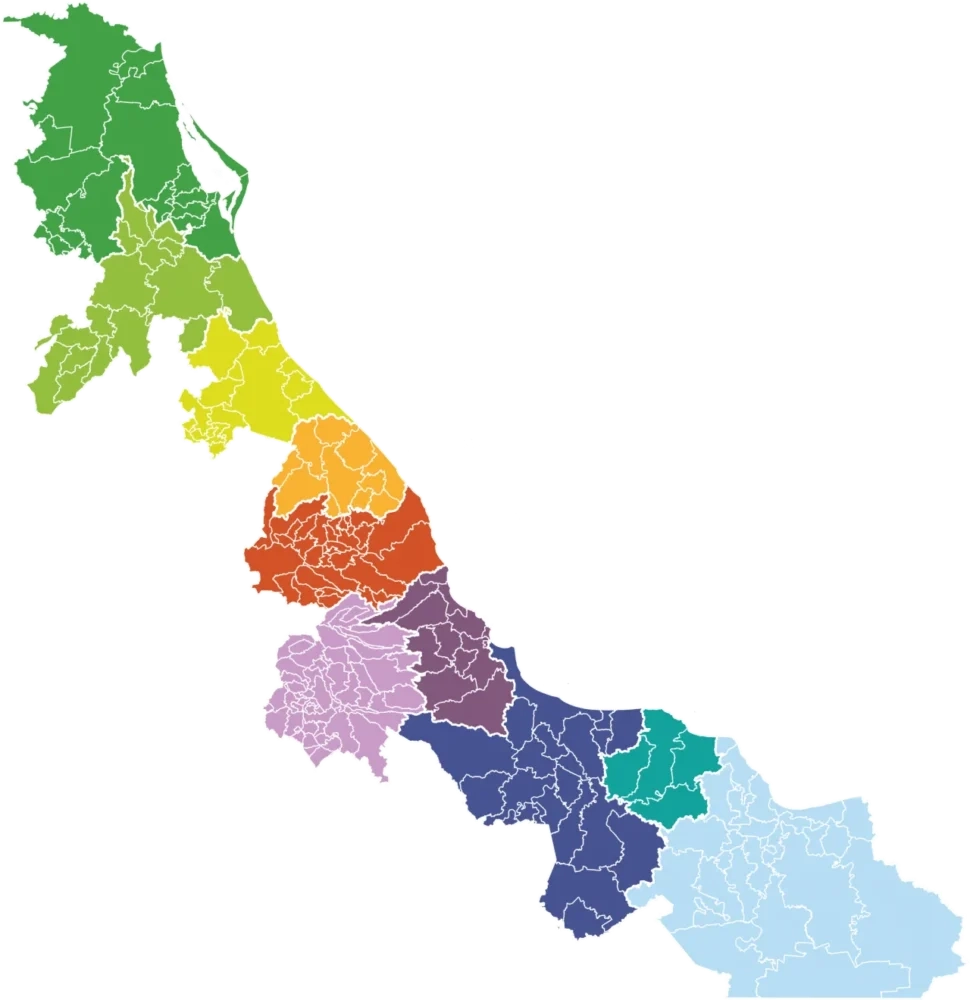
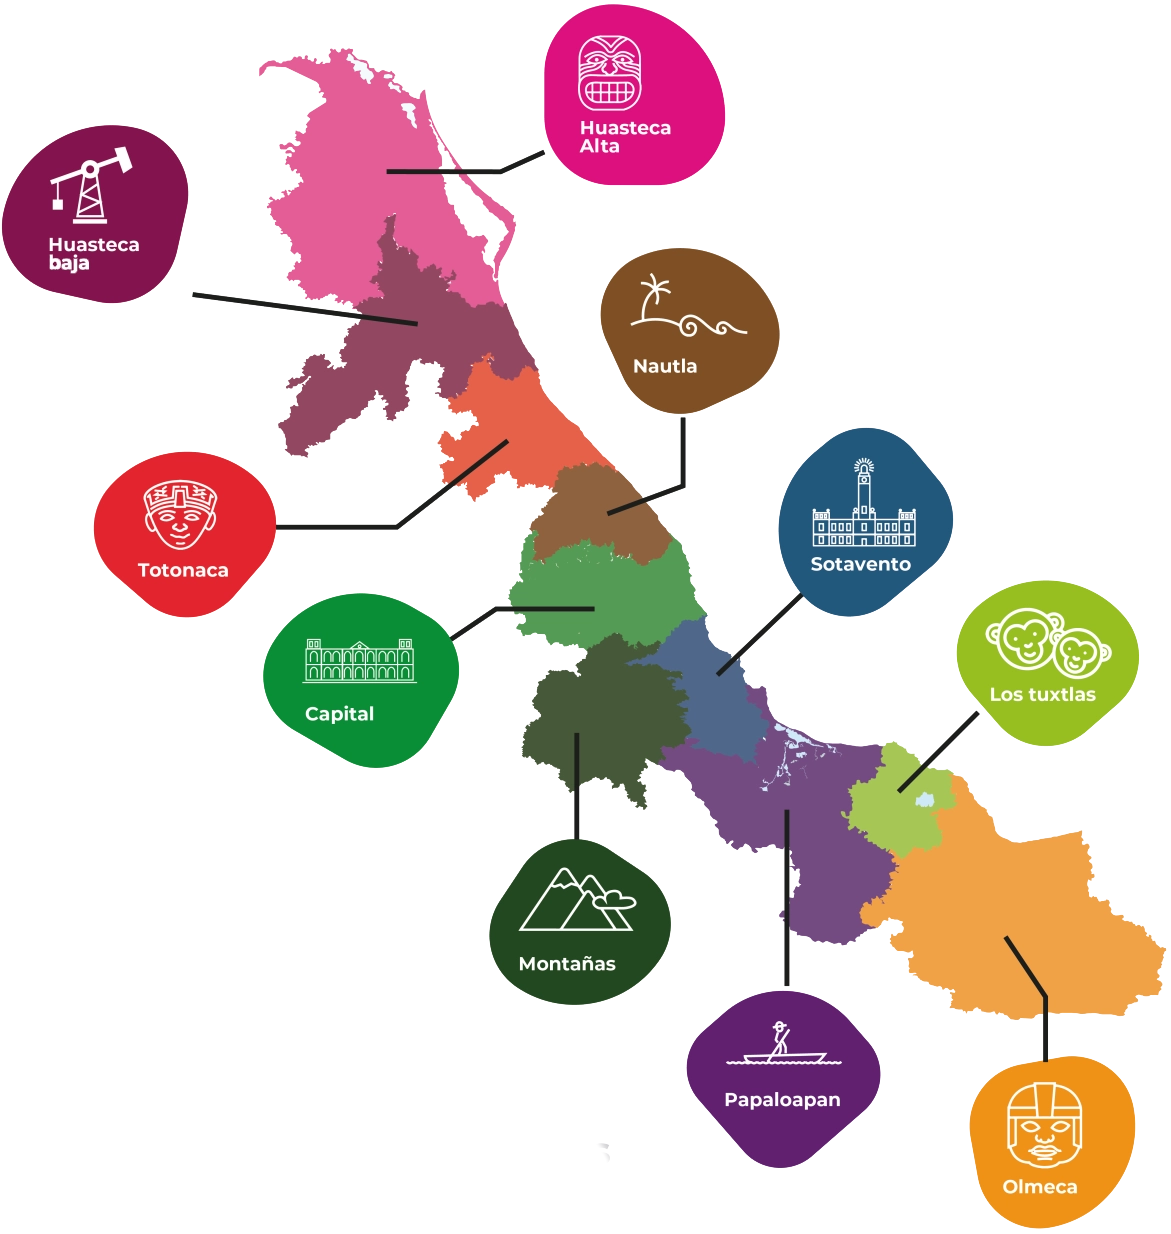
refactor: update map layout, recalibrate hotspots, and replace map asset for improved responsiveness

diff --git a/sonzapateado.html b/sonzapateado.html
@@ -643,12 +643,14 @@
 
 		.map-viewport {
 			position: relative;
-			flex: 0 0 350px; /* Ancho fijo para estabilidad total */
+			flex: 0 0 550px;
+			/* Tamaño mayor para PC */
 			background: transparent;
 			border-radius: 20px;
 			border: 1px solid rgba(255, 255, 255, 0.05);
-			margin: 0 auto;
+			margin: 0;
 			height: fit-content;
+			max-width: 100%;
 		}
 
 		.map-image {
@@ -672,7 +674,8 @@
 			transform: translate(-50%, -50%);
 			z-index: 10;
 			box-shadow: 0 0 10px rgba(212, 175, 55, 0.8);
-			will-change: transform; /* Optimización para animaciones */
+			will-change: transform;
+			/* Optimización para animaciones */
 		}
 
 		/* Efecto pulso */
@@ -710,7 +713,8 @@
 		}
 
 		.info-glass-panel {
-			flex: 1; /* El panel ocupa el resto del espacio sin empujar el mapa */
+			flex: 1;
+			/* El panel ocupa el resto del espacio sin empujar el mapa */
 			background: rgba(20, 20, 20, 0.6);
 			backdrop-filter: blur(15px);
 			border-radius: 20px;
@@ -759,10 +763,33 @@
 		@media (max-width: 1024px) {
 			.explorer-container {
 				flex-direction: column;
+				padding: 20px;
 			}
 
 			.map-viewport {
-				min-height: 500px;
+				flex: 0 0 auto;
+				width: 100%;
+				max-width: 600px;
+				margin: 0 auto;
+			}
+
+			.info-glass-panel {
+				min-height: auto;
+			}
+		}
+
+		@media (max-width: 768px) {
+			.region-title {
+				font-size: 1.8rem;
+			}
+
+			.explorer-container {
+				padding: 15px;
+				gap: 20px;
+			}
+
+			.info-extra-box {
+				padding: 12px;
 			}
 		}
 
@@ -945,22 +972,24 @@
 						<img src="images/sonzapateado/mapa_veracruz.webp" class="map-image" alt="Geografía de Veracruz">
 
 						<!-- Hotspots recalibrados para el mapa vertical -->
-						<div class="hotspot" style="top: 8%; left: 10%;" onmouseover="updateExplorer('huasteca_alta')">
+						<div class="hotspot" style="top: 14%; left: 32%;" onmouseover="updateExplorer('huasteca_alta')">
 						</div>
-						<div class="hotspot" style="top: 28%; left: 15%;" onmouseover="updateExplorer('huasteca_baja')">
+						<div class="hotspot" style="top: 26%; left: 35%;" onmouseover="updateExplorer('huasteca_baja')">
 						</div>
-						<div class="hotspot" style="top: 38%; left: 27%;" onmouseover="updateExplorer('totonaca')">
+						<div class="hotspot" style="top: 36%; left: 43%;" onmouseover="updateExplorer('totonaca')">
 						</div>
-						<div class="hotspot" style="top: 46%; left: 35%;" onmouseover="updateExplorer('nautla')"></div>
-						<div class="hotspot" style="top: 55%; left: 35%;" onmouseover="updateExplorer('capital')"></div>
-						<div class="hotspot" style="top: 69%; left: 35%;" onmouseover="updateExplorer('montanas')">
+						<div class="hotspot" style="top: 41.5%; left: 52%;" onmouseover="updateExplorer('nautla')">
 						</div>
-						<div class="hotspot" style="top: 65%; left: 47%;" onmouseover="updateExplorer('sotavento')">
+						<div class="hotspot" style="top: 49.4%; left: 51%;" onmouseover="updateExplorer('capital')">
 						</div>
-						<div class="hotspot" style="top: 77%; left: 56%;" onmouseover="updateExplorer('papaloapan')">
+						<div class="hotspot" style="top: 60%; left: 49.2%;" onmouseover="updateExplorer('montanas')">
 						</div>
-						<div class="hotspot" style="top: 76%; left: 68%;" onmouseover="updateExplorer('tuxtlas')"></div>
-						<div class="hotspot" style="top: 90%; left: 82%;" onmouseover="updateExplorer('olmeca')"></div>
+						<div class="hotspot" style="top: 55%; left: 61%;" onmouseover="updateExplorer('sotavento')">
+						</div>
+						<div class="hotspot" style="top: 65%; left: 67.1%;" onmouseover="updateExplorer('papaloapan')">
+						</div>
+						<div class="hotspot" style="top: 64%; left: 77%;" onmouseover="updateExplorer('tuxtlas')"></div>
+						<div class="hotspot" style="top: 76%; left: 86%;" onmouseover="updateExplorer('olmeca')"></div>
 					</div>
 
 					<div class="info-glass-panel" id="explorer-panel">
@@ -972,15 +1001,18 @@
 
 						<div id="explorer-content" style="display: none;">
 							<h3 class="region-title" id="exp-title">Región</h3>
-							
+
 							<div class="info-extra-box" style="margin-top: 0; background: rgba(212, 175, 55, 0.1);">
 								<span class="info-extra-title">Identidad Cultural:</span>
-								<p id="exp-identity" style="font-size: 0.95rem; font-weight: bold; color: #fff; margin: 0;"></p>
+								<p id="exp-identity"
+									style="font-size: 0.95rem; font-weight: bold; color: #fff; margin: 0;"></p>
 							</div>
 
 							<div class="data-grid">
-								<div class="data-item"><span class="data-label">Clima y Paisaje</span><span class="data-value" id="exp-climate">-</span></div>
-								<div class="data-item"><span class="data-label">Motor Económico</span><span class="data-value" id="exp-economy">-</span></div>
+								<div class="data-item"><span class="data-label">Clima y Paisaje</span><span
+										class="data-value" id="exp-climate">-</span></div>
+								<div class="data-item"><span class="data-label">Motor Económico</span><span
+										class="data-value" id="exp-economy">-</span></div>
 							</div>
 
 							<div class="info-extra-box">
@@ -990,12 +1022,15 @@
 
 							<div class="info-extra-box">
 								<span class="info-extra-title">Dato Curioso:</span>
-								<p id="exp-fact" style="font-size: 0.85rem; margin: 0; font-style: italic; opacity: 0.9;"></p>
+								<p id="exp-fact"
+									style="font-size: 0.85rem; margin: 0; font-style: italic; opacity: 0.9;"></p>
 							</div>
 
 							<div class="info-extra-box" style="border-left-color: rgba(255,255,255,0.3);">
 								<span class="info-extra-title">Municipios de la Región:</span>
-								<p id="exp-mun" style="font-size: 0.75rem; margin: 0; opacity: 0.7; line-height: 1.4; max-height: 120px; overflow-y: auto; padding-right: 5px;"></p>
+								<p id="exp-mun"
+									style="font-size: 0.75rem; margin: 0; opacity: 0.7; line-height: 1.4; max-height: 120px; overflow-y: auto; padding-right: 5px;">
+								</p>
 							</div>
 						</div>
 					</div>
